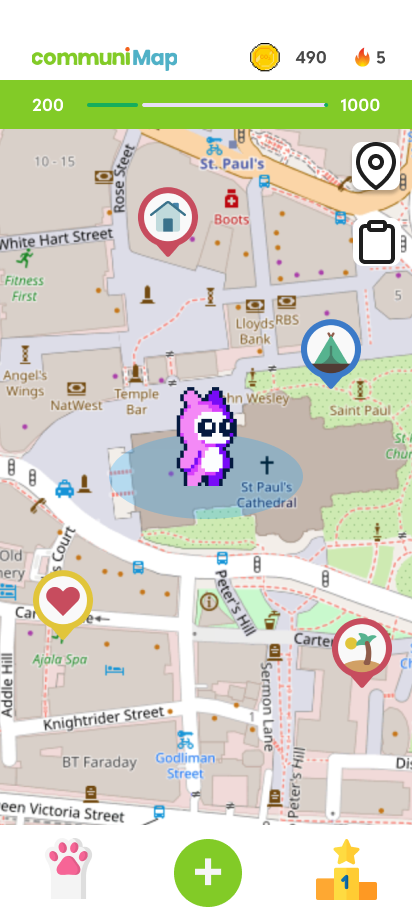
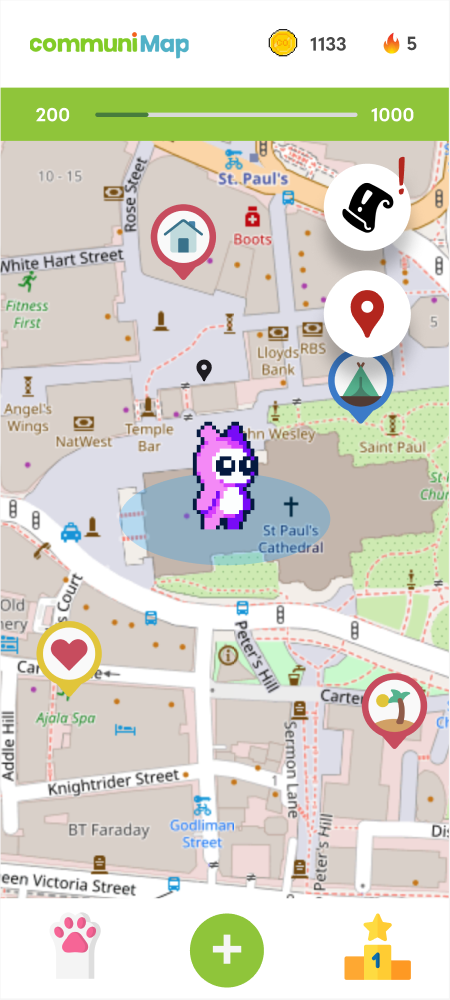
change screen images and add more screens

diff --git a/index.html b/index.html
@@ -245,13 +245,28 @@
                     <img src="images/new-prototype/journey-progress-screen.png" alt="Journey Progress Screen" />
                     <p>Users can visualize their environmental impact and pet development over time</p>
                 </div>
+                <div class="feature-showcase">
+                    <h3>Pet Customization</h3>
+                    <img src="images/new-prototype/pet-screen.png" alt="Pet Screen" />
+                    <p>Users can customize their virtual pet using CO₂ Coins earned from active travel</p>
+                </div>
+                <div class="feature-showcase">
+                    <h3>CO₂ Coins and Daily Quests</h3>
+                    <img src="images/new-prototype/end-screen.png" alt="End Screen" />
+                    <p>Earn CO₂ Coins through the CO₂ saved in your journey and complete daily quests!</p>
+                </div>
+                <div class="feature-showcase">
+                    <h3>Leaderboards</h3>
+                    <img src="images/new-prototype/leaderboard-screen.png" alt="Leaderboard Screen" />
+                    <p>Compete with friends and the community to see who can save the most CO₂</p>
+                </div>
+                <div class="feature-showcase">
+                    <h3>Set Route Destination</h3>
+                    <img src="images/new-prototype/set-destination-screen.png" alt="Set Destination Screen" />
+                    <p>Users can set their destination to find the best active travel routes</p>
+                </div>
             </div>
-        </div>
-    </section>
-
-    <section id="impact" class="impact">
-        <div class="container">
-            <h2 class="section-title">Expected Impact & Benefits</h2>
+            <h2 style="margin-top: 40px;" class="section-title">Expected Impact & Benefits</h2>
             <div class="impact-grid">
                 <div class="impact-item">
                     <h3>🌍 Environmental Impact</h3>

diff --git a/styles.css b/styles.css
@@ -605,6 +605,10 @@ section {
 
 .prototype-features {
     margin-top: 4rem;
+    display: flex;
+    flex-wrap: wrap; /* Ensures that the items wrap on smaller screens */
+    gap: 2rem; /* Adds spacing between the two divs */
+    justify-content: center; /* Centers the divs horizontally */
 }
 
 .feature-showcase {
@@ -612,6 +616,10 @@ section {
     background: var(--background-gray);
     padding: 3rem;
     border-radius: 20px;
+    flex: 1 1 calc(33% - 2rem); /* This makes the divs take up 50% of the space, minus the gap */
+    box-sizing: border-box; /* Makes sure padding doesn’t affect the width calculation */
+    /* Optional: if you want to set a max width for the divs */
+    max-width: 800px;
 }
 
 .feature-showcase h3 {
@@ -653,11 +661,11 @@ section {
 }
 
 .poster {
-    background-color: var(--background-light);
+    background-color: var(--background-gray);
 }
 
 .reflections {
-    background-color: var(--background-gray);
+    background-color: var(--background-light);
 }
 
 .reflections-pitch {
@@ -829,7 +837,7 @@ section {
 }
 
 .team {
-    background-color: var(--background-light);
+    background-color: var(--background-gray);
 }
 
 .team-grid {
@@ -840,7 +848,7 @@ section {
 }
 
 .team-member {
-    background: var(--background-gray);
+    background: var(--background-light);
     padding: 2rem;
     border-radius: 15px;
     text-align: center;
